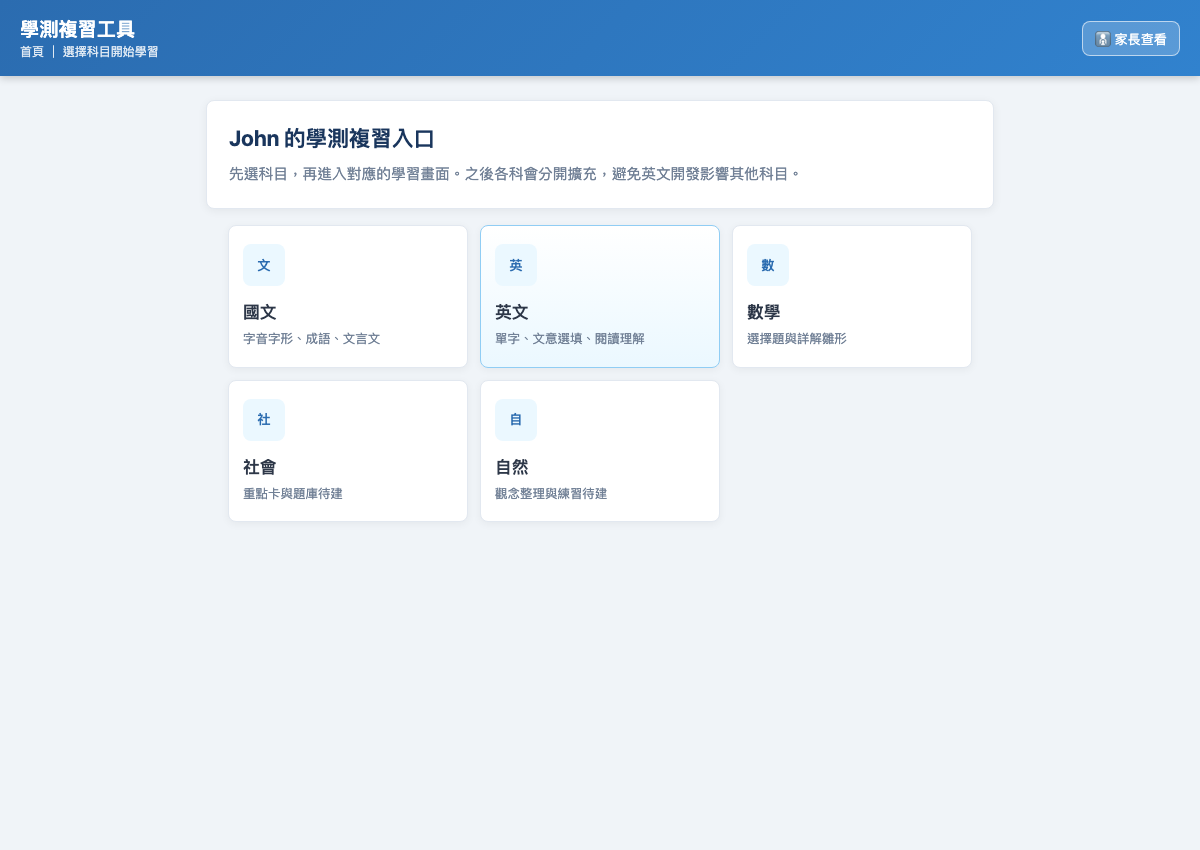
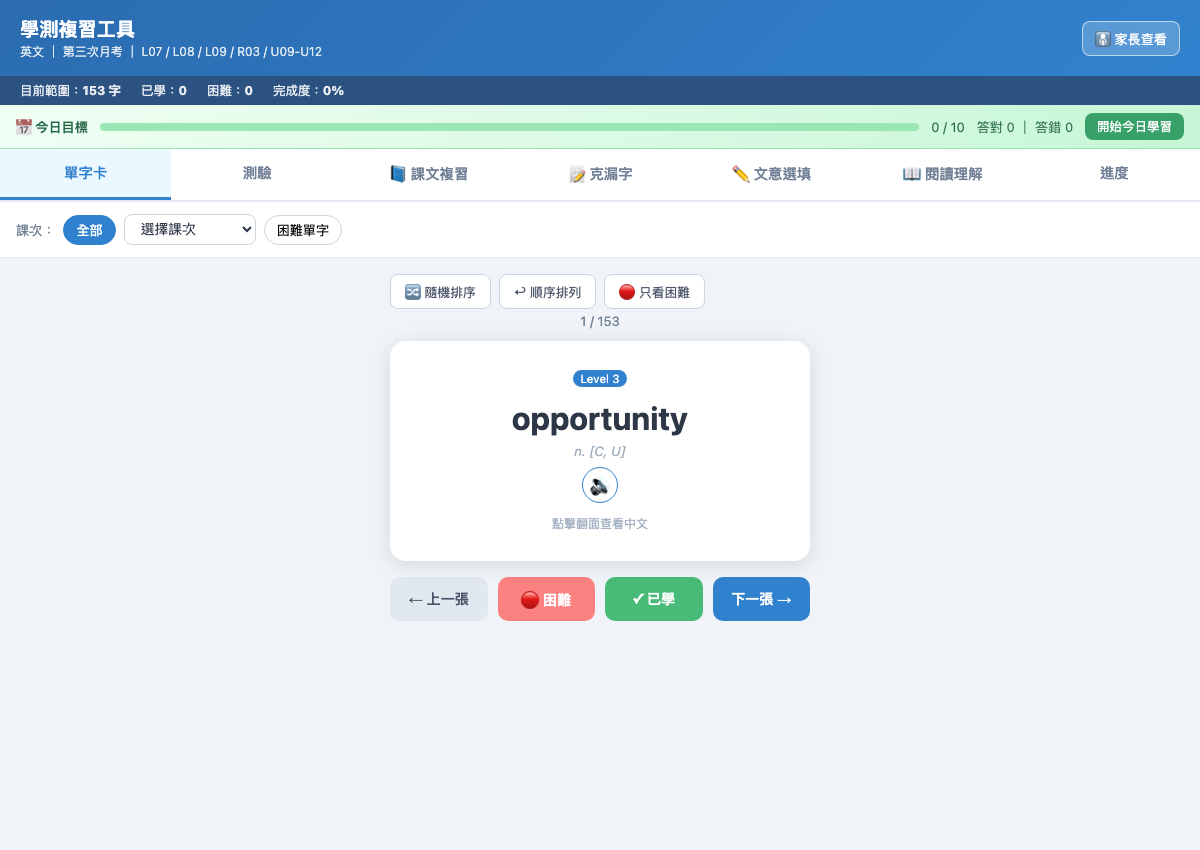
小程式製作頁加入兩個成品範例截圖(刷題工具、單字複習)，點圖連到實際成品

diff --git a/index.html b/index.html
@@ -728,6 +728,18 @@ header.hero.page-el.on{display:flex}
     <h2 class="title">把一個資料夾，變成學生回家作業小程式</h2>
     <p class="lead">老師把題目、答案、圖片或 PDF 放在同一個資料夾，再把下面產生的任務貼給 Codex 或 Claude。AI 會讀資料夾內容，做成手機可用、可回收作答結果的網頁版作業。</p>
 
+    <p style="font-weight:800;font-size:16px;margin:6px 0 12px">👀 做出來像這樣（點圖看實際成品）</p>
+    <div class="grid g2" style="margin-bottom:32px">
+      <a href="https://jackchan1973.github.io/gsat-exam/" target="_blank" rel="noopener" style="text-decoration:none;color:inherit">
+        <img class="case-thumb" src="assets/case-gsat.png" alt="歷屆考題刷題小程式" style="border:1px solid var(--line)">
+        <p style="font-weight:700;font-size:14.5px;margin-top:8px;color:var(--ink)">📝 歷屆考題刷題小程式 ↗</p>
+      </a>
+      <a href="https://jackchan1973.github.io/vocab-app/" target="_blank" rel="noopener" style="text-decoration:none;color:inherit">
+        <img class="case-thumb" src="assets/case-vocab.png" alt="單字複習小程式" style="border:1px solid var(--line)">
+        <p style="font-weight:700;font-size:14.5px;margin-top:8px;color:var(--ink)">📚 單字複習小程式 ↗</p>
+      </a>
+    </div>
+
     <div class="grid g3" style="margin-bottom:28px">
       <div class="card">
         <div class="badge">1</div>